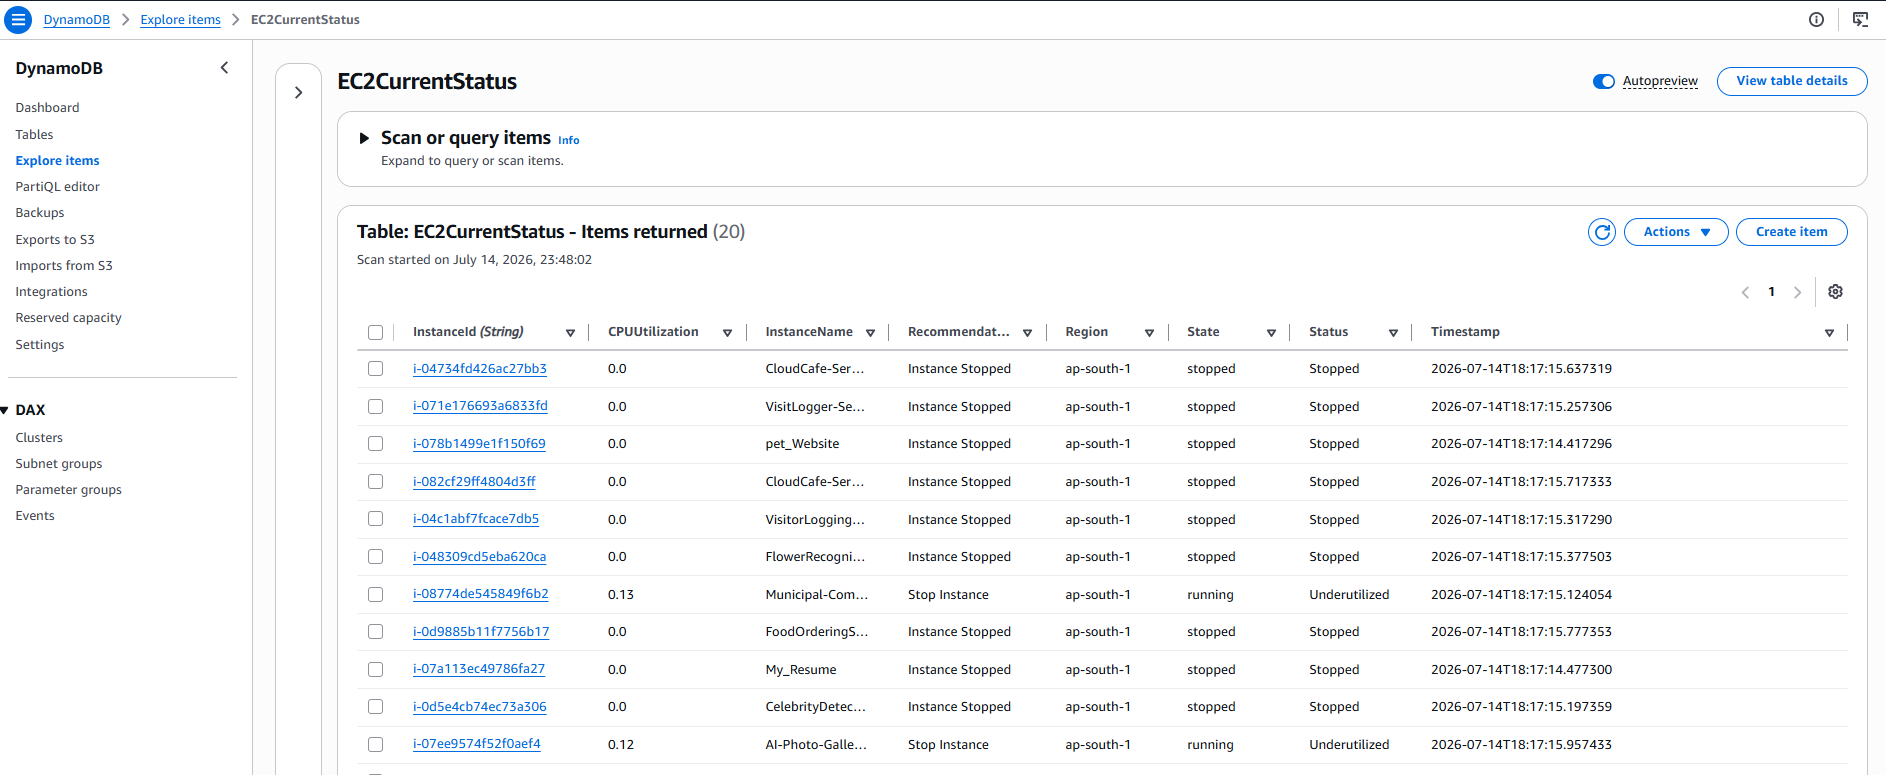
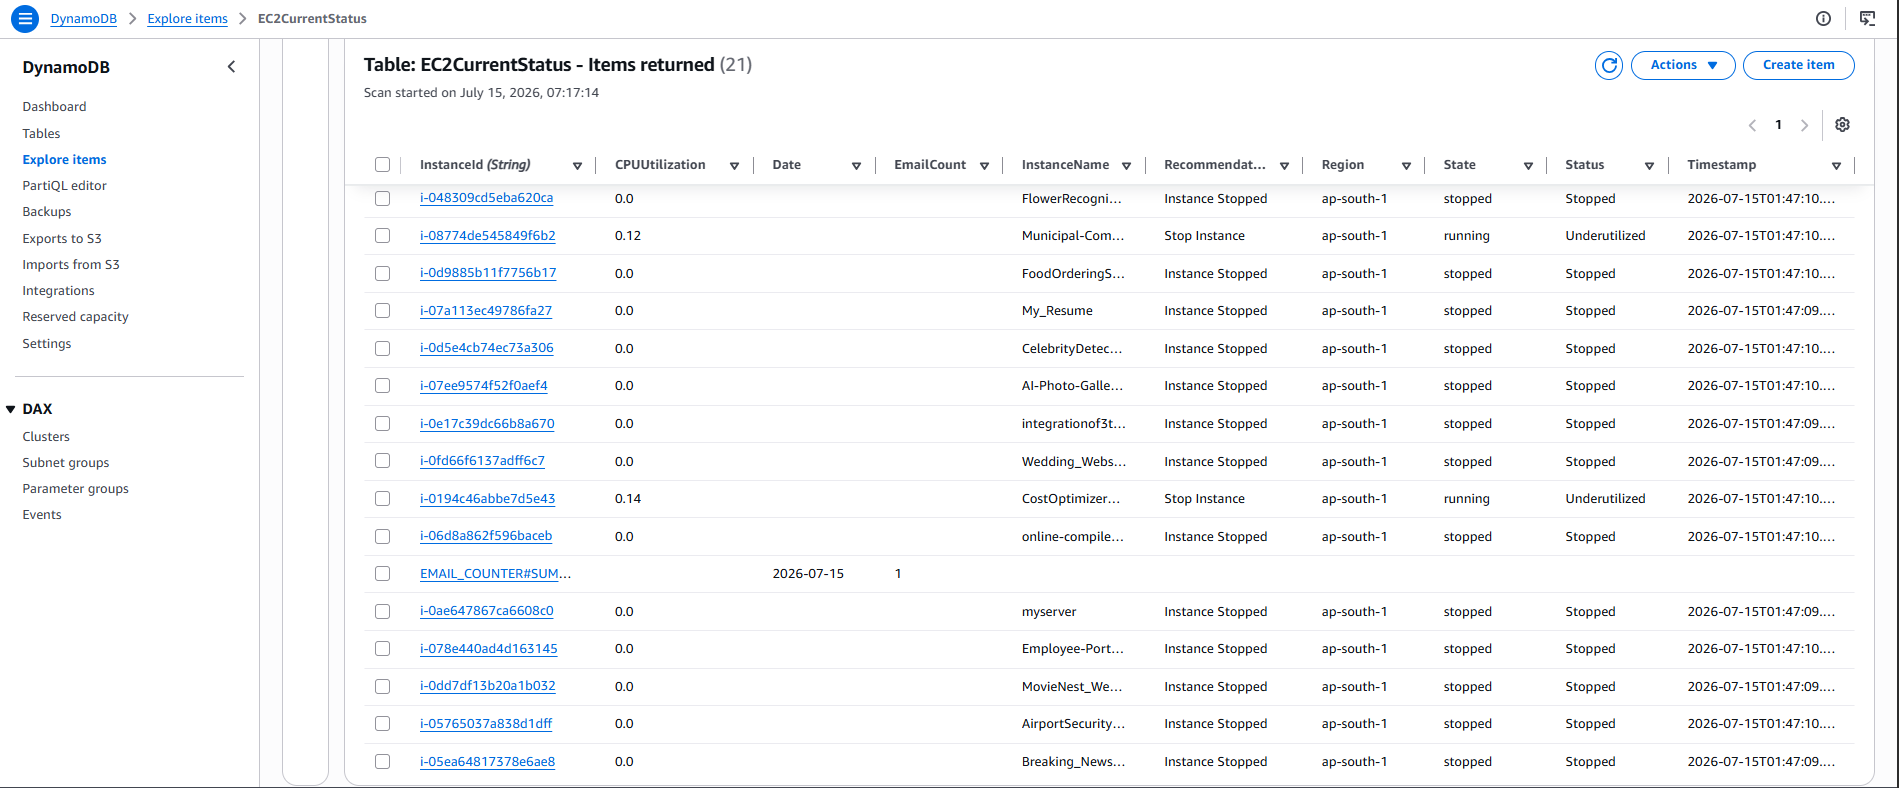
Update lambda function and documentation

diff --git a/lambda_function.py b/lambda_function.py
@@ -2,6 +2,7 @@ import boto3
 import os
 import json
 from datetime import datetime, timedelta
+from decimal import Decimal
 
 # AWS Clients
 ec2 = boto3.client("ec2")
@@ -15,6 +16,8 @@ SNS_TOPIC_ARN = os.environ["SNS_TOPIC_ARN"]
 
 history_table = dynamodb.Table(TABLE_NAME)
 current_table = dynamodb.Table(CURRENT_TABLE)
+
+MAX_EMAILS_PER_DAY = 3
 
 
 def get_instance_name(tags):
@@ -49,12 +52,70 @@ def get_cpu(instance_id):
     return round(datapoints[-1]["Average"], 2)
 
 
+def can_send_email(counter_key):
+
+    today = datetime.utcnow().strftime("%Y-%m-%d")
+
+    counter_id = f"EMAIL_COUNTER#{counter_key}"
+
+    response = current_table.get_item(
+        Key={
+            "InstanceId": counter_id
+        }
+    )
+
+    if "Item" not in response:
+
+        current_table.put_item(
+            Item={
+                "InstanceId": counter_id,
+                "Date": today,
+                "EmailCount": 1
+            }
+        )
+
+        return True
+
+    item = response["Item"]
+
+    count = int(item.get("EmailCount", 0))
+
+    if item.get("Date") != today:
+
+        current_table.put_item(
+            Item={
+                "InstanceId": counter_id,
+                "Date": today,
+                "EmailCount": 1
+            }
+        )
+
+        return True
+
+    if count >= MAX_EMAILS_PER_DAY:
+
+        return False
+
+    current_table.update_item(
+        Key={
+            "InstanceId": counter_id
+        },
+        UpdateExpression="SET EmailCount = :c",
+        ExpressionAttributeValues={
+            ":c": Decimal(count + 1)
+        }
+    )
+
+    return True
+
+
 def lambda_handler(event, context):
     results = []
 
     running_count = 0
     stopped_count = 0
     underutilized_count = 0
+    underutilized_instances = []
 
     reservations = ec2.describe_instances()["Reservations"]
 
@@ -73,24 +134,16 @@ def lambda_handler(event, context):
                 running_count += 1
                 cpu = get_cpu(instance_id)
 
-                if cpu < 10:
+                if 0 < cpu < 10:
                     recommendation = "Stop Instance"
                     status = "Underutilized"
                     underutilized_count += 1
 
-                    try:
-                        sns.publish(
-                            TopicArn=SNS_TOPIC_ARN,
-                            Subject="AWS Cost Optimizer Alert",
-                            Message=f"""EC2 Instance: {instance_name}
-Instance ID: {instance_id}
-CPU Utilization: {cpu} %
-
-Recommendation:
-Stop or resize this EC2 instance to reduce AWS cost."""
-                        )
-                    except Exception as e:
-                        print(f"SNS Error: {e}")
+                    underutilized_instances.append({
+                        "Name": instance_name,
+                        "CPU": cpu,
+                        "InstanceId": instance_id
+                    })
 
                 else:
                     recommendation = "No Action Needed"
@@ -129,7 +182,43 @@ Stop or resize this EC2 instance to reduce AWS cost."""
                 "Timestamp": timestamp
             })
 
-    # Publish custom CloudWatch metrics
+    if underutilized_instances:
+        message = f"""
+AWS Cost Optimizer Report
+
+Running Instances : {running_count}
+Stopped Instances : {stopped_count}
+Underutilized : {underutilized_count}
+
+--------------------------------
+"""
+
+        for i, instance in enumerate(underutilized_instances, start=1):
+            message += f"""
+{i}. {instance['Name']}
+   Instance ID : {instance['InstanceId']}
+   CPU : {instance['CPU']}%
+"""
+
+        message += """
+
+Recommendation
+
+Stop or resize these EC2 instances to reduce AWS costs.
+"""
+
+        if can_send_email("SUMMARY"):
+
+            try:
+                sns.publish(
+                    TopicArn=SNS_TOPIC_ARN,
+                    Subject="AWS Cost Optimizer Summary",
+                    Message=message
+                )
+            except Exception as e:
+                print(f"SNS Error: {e}")
+
+    # Publish custom CloudWatch metric
     cloudwatch.put_metric_data(
         Namespace="CloudCostGuardian",
         MetricData=[

diff --git a/README.md b/README.md
@@ -13,7 +13,7 @@
 
 CloudCost Guardian is a serverless AWS monitoring application that continuously monitors all EC2 instances in an AWS account.
 
-The system automatically analyzes CloudWatch CPU utilization metrics, identifies underutilized EC2 instances, stores monitoring data in DynamoDB, sends email notifications using Amazon SNS, and displays the complete monitoring information on a real-time web dashboard.
+The system automatically analyzes CloudWatch CPU utilization metrics, identifies underutilized EC2 instances, stores monitoring history in DynamoDB, publishes custom CloudWatch metrics, sends a consolidated Amazon SNS summary email containing all underutilized instances, and displays the monitoring information through a real-time web dashboard.
 
 This project demonstrates the practical implementation of multiple AWS cloud services working together to optimize cloud infrastructure costs.
 
@@ -79,9 +79,19 @@ If CPU Utilization < 10%
 
 ---
 
-✅ Email Notifications
+✅ Email Summary Notifications
 
-Amazon SNS sends an email alert whenever an underutilized running instance is detected.
+Amazon SNS sends a single summary email listing all underutilized EC2 instances detected during a monitoring cycle.
+
+The summary includes:
+
+• Total Running Instances
+• Total Stopped Instances
+• Underutilized Instance Count
+• Instance Name
+• Instance ID
+• CPU Utilization
+• Optimization Recommendation
 
 ---
 
@@ -137,6 +147,7 @@ Displays
 - Recommendations
 - Search & Filter
 - Auto Refresh
+- Consolidated SNS Email Summary
 
 ---
 
@@ -195,27 +206,29 @@ CloudCostGuardian-AWS/
 # 🚀 Project Flow
 
 ```
-                User
-                  │
-                  ▼
-      CloudCost Guardian Dashboard
-         (HTML + JavaScript)
-                  │
-                  ▼
-          Amazon API Gateway
-                  │
-                  ▼
-             AWS Lambda
-                  │
-      ┌───────────┼───────────┐
-      │           │           │
-      ▼           ▼           ▼
- CloudWatch   DynamoDB       SNS
- (Metrics)  (History &      (Email
-            Current)        Alerts)
-      │
-      ▼
- Amazon EC2 Instances
+EC2 Instances
+       │
+       ▼
+CloudWatch CPU Metrics
+       │
+       ▼
+AWS Lambda
+       │
+ ┌─────┼────────────────────────────┐
+ │     │                            │
+ ▼     ▼                            ▼
+DynamoDB                 Amazon SNS Summary
+(History &               (Single Email Report)
+Current Status)
+       │
+       ▼
+CloudWatch Custom Metrics
+       │
+       ▼
+API Gateway
+       │
+       ▼
+CloudCost Guardian Dashboard
 ```
 
 ---
@@ -232,13 +245,14 @@ CloudCostGuardian-AWS/
 
 # 📈 Future Enhancements
 
-- Automatic EC2 Stop/Start
-- Cost Estimation Dashboard
-- Multi-Region Monitoring
-- AWS Cost Explorer Integration
-- CloudWatch Alarms
-- User Authentication
-- Historical Analytics Dashboard
+• Automatic EC2 Stop/Start
+• AWS Cost Explorer Integration
+• Multi-Region Monitoring
+• CloudWatch Alarms
+• Slack & Microsoft Teams Notifications
+• Weekly Cost Optimization Reports
+• User Authentication
+• Historical Trend Analysis
 
 ---
 

diff --git a/docs/deployment-guide.md b/docs/deployment-guide.md
@@ -162,9 +162,9 @@ Create Topic
 CostOptimizerAlerts
 ```
 
-Create Email Subscription
+Create an Email Subscription and confirm it.
 
-Confirm the email subscription.
+The Lambda function sends a single summary email containing all underutilized EC2 instances detected during the monitoring cycle.
 
 ---
 
@@ -256,7 +256,8 @@ Expected Result
 - Read CloudWatch CPU metrics
 - Store data in DynamoDB
 - Publish CloudWatch metrics
-- Send SNS alerts
+- Generate a summary of all underutilized EC2 instances.
+- Send one consolidated SNS email report.
 - Return JSON
 
 ---
@@ -325,7 +326,15 @@ Metrics
 
 Verify SNS
 
-Receive email alert whenever a running EC2 instance has CPU utilization below 10%.
+Receive one summary email containing:
+
+• Running Instances
+• Stopped Instances
+• Underutilized Instances
+• Instance Name
+• Instance ID
+• CPU Utilization
+• Recommendation
 
 ---
 
@@ -333,13 +342,14 @@ Receive email alert whenever a running EC2 instance has CPU utilization below 10
 
 The system successfully
 
-- Discovers all EC2 instances
-- Reads CloudWatch CPU metrics
-- Identifies underutilized resources
-- Stores monitoring history
-- Maintains latest instance status
-- Sends email notifications
-- Displays a live monitoring dashboard
+• Discovers all EC2 instances
+• Reads CloudWatch CPU utilization metrics
+• Identifies underutilized EC2 instances
+• Stores complete monitoring history
+• Maintains the latest instance status
+• Publishes custom CloudWatch metrics
+• Sends a consolidated SNS summary email
+• Displays a real-time monitoring dashboard
 
 ---
 